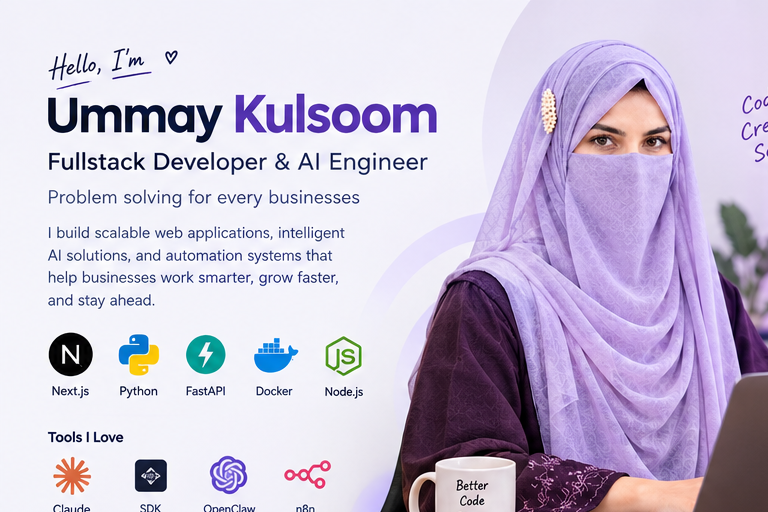
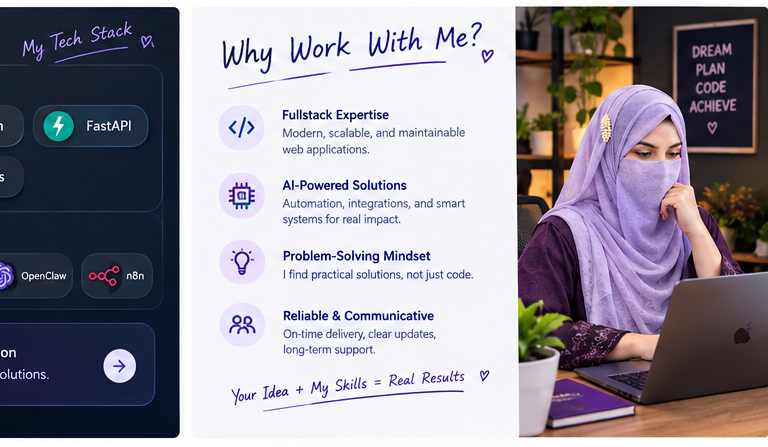
About: swap to Why-Work-With-Me infographic, enlarge image card
Widen the glass card and drop the stale caption so the new
infographic's text stays readable instead of being shrunk down.

diff --git a/components/About.jsx b/components/About.jsx
@@ -5,7 +5,7 @@ export default function About() {
     <section id="about">
       <div className="about-grid">
 
-        {/* LEFT — AI Synergy image in glass card */}
+        {/* LEFT — About Me infographic in glass card */}
         <div className="about-image-col flex justify-center">
           <div style={{
             background: 'rgba(255,255,255,0.65)',
@@ -13,21 +13,20 @@ export default function About() {
             WebkitBackdropFilter: 'blur(20px) saturate(1.5)',
             borderRadius: '20px',
             border: '1px solid rgba(255,255,255,0.9)',
-            padding: '24px',
+            padding: '16px',
             boxShadow: '0 1px 0 rgba(255,255,255,0.95) inset, 0 20px 48px rgba(255,140,0,0.1), 0 8px 20px rgba(0,0,0,0.05)',
             display: 'flex',
             flexDirection: 'column',
             alignItems: 'center',
-            gap: '16px',
             animation: 'float 5s ease-in-out infinite',
             width: '100%',
-            maxWidth: '380px'
+            maxWidth: '560px'
           }}>
             <img
               src="/images/about-me.png"
-              alt="Ummay Kulsoom - Fullstack Developer & AI Engineer"
+              alt="Why work with Ummay Kulsoom - fullstack expertise, AI-powered solutions, problem-solving mindset, reliable communication"
               width={768}
-              height={512}
+              height={447}
               loading="lazy"
               decoding="async"
               style={{
@@ -37,16 +36,6 @@ export default function About() {
                 filter: 'brightness(1.02) saturate(1.1)'
               }}
             />
-            <p style={{
-              color: '#FF8C00',
-              fontSize: '13px',
-              fontWeight: '700',
-              textAlign: 'center',
-              WebkitTextFillColor: '#FF8C00',
-              letterSpacing: '0.02em'
-            }}>
-              AI &amp; Full-Stack Synergy
-            </p>
           </div>
         </div>
 
